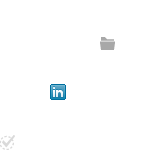
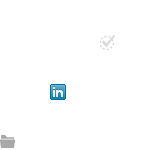
apply page dev - wip

Changed region(s): [[0.0, 0.88, 0.1067, 1.0], [0.6667, 0.24, 0.7733, 0.3467]]

diff --git a/css/style.css b/css/style.css
@@ -501,74 +501,77 @@ section {
 }
 
 .btnUpload {
-  color:                #eee;
-  text-shadow:          1px 1px 0 rgba(95,95,95,0.3);
-  margin-bottom:        10px;
-  padding-right:        22px;
-  padding-left:         47px;
-  border-color:         #838383;
-  background:           #c3383d url(../img/btns_lt_apply.png) -30px -74px no-repeat;
-  background:           url(../img/btns_lt_apply.png) -30px -74px no-repeat, -moz-linear-gradient(top, #c3383d 0%, #c3020a 100%);
-  background:           url(../img/btns_lt_apply.png) -30px -74px no-repeat, -webkit-gradient(linear, left top, left bottom, color-stop(0%,#c3383d), color-stop(100%,#c3020a));
-  -pie-background:      url(/img/btns_lt_apply.png) -30px -74px no-repeat, linear-gradient(#c3383d, #c3020a);
+  color:                #999898;
+  text-shadow:          1px 1px 0 rgba(255,255,255,0.3);
+  padding:              11px 12px 11px 44px;
+  border-color:         #b8b8b7;
+  background:           #fefefe url(../img/btns_lt_apply.png) 20px -124px no-repeat;
+  background:           url(../img/btns_lt_apply.png) 20px -124px no-repeat, -moz-linear-gradient(top, #fefefe 0%, #d7d7d7 100%);
+  background:           url(../img/btns_lt_apply.png) 20px -124px no-repeat, -webkit-gradient(linear, left top, left bottom, color-stop(0%,#fefefe), color-stop(100%,#d7d7d7));
+  -pie-background:      url(/img/btns_lt_apply.png) 20px -124px no-repeat, linear-gradient(#fefefe, #d7d7d7);
+     -moz-box-shadow:   0 2px 4px rgba(151,151,151,0.5); 
+  -webkit-box-shadow:   0 2px 4px rgba(151,151,151,0.5); 
+          box-shadow:   0 2px 4px rgba(151,151,151,0.5);
   behavior: url(/js/libs/PIE/PIE.htc);
 }
 .btnUpload:hover,
 .btnUpload:active,
 .btnUpload:visited {
-  color:                #eee;
+  color:                #999898;
 }
 .btnUpload:hover {
-  background:           #93262a url(../img/btns_lt_apply.png) -30px -74px no-repeat;
-  background:           url(../img/btns_lt_apply.png) -30px -74px no-repeat, -moz-linear-gradient(top, #93262a 0%, #8f0309 100%);
-  background:           url(../img/btns_lt_apply.png) -30px -74px no-repeat, -webkit-gradient(linear, left top, left bottom, color-stop(0%,#93262a), color-stop(100%,#8f0309));
-  -pie-background:      url(/img/btns_lt_apply.png) -30px -74px no-repeat, linear-gradient(#93262a, #8f0309);
+  background:           #fefefe url(../img/btns_lt_apply.png) 20px -124px no-repeat;
+  background:           url(../img/btns_lt_apply.png) 20px -124px no-repeat, -moz-linear-gradient(top, #fefefe 0%, #a4a4a4 100%);
+  background:           url(../img/btns_lt_apply.png) 20px -124px no-repeat, -webkit-gradient(linear, left top, left bottom, color-stop(0%,#fefefe), color-stop(100%,#a4a4a4));
+  -pie-background:      url(/img/btns_lt_apply.png) 20px -124px no-repeat, linear-gradient(#fefefe, #a4a4a4);
 }
 .btnUpload:active {
-  background:           #770207 url(../img/btns_lt_apply.png) -30px -74px no-repeat;
-  -pie-background:      #770207 url(/img/btns_lt_apply.png) -30px -74px no-repeat;
+  background:           #d7d7d7 url(../img/v.png) 20px -124px no-repeat;
+  -pie-background:      #d7d7d7 url(/img/btns_lt_apply.png) 20px -124px no-repeat;
 }
 
 .btnLinkedIn {
-  color:                #eee;
-  text-shadow:          1px 1px 0 rgba(95,95,95,0.3);
-  margin-bottom:        10px;
-  padding-right:        22px;
-  padding-left:         47px;
-  border-color:         #838383;
-  background:           #c3383d url(../img/btns_lt_apply.png) -30px -74px no-repeat;
-  background:           url(../img/btns_lt_apply.png) -30px -74px no-repeat, -moz-linear-gradient(top, #c3383d 0%, #c3020a 100%);
-  background:           url(../img/btns_lt_apply.png) -30px -74px no-repeat, -webkit-gradient(linear, left top, left bottom, color-stop(0%,#c3383d), color-stop(100%,#c3020a));
-  -pie-background:      url(/img/btns_lt_apply.png) -30px -74px no-repeat, linear-gradient(#c3383d, #c3020a);
+  color:                #999898;
+  text-shadow:          1px 1px 0 rgba(255,255,255,0.3);
+  padding:              11px 12px 11px 44px;
+  border-color:         #b8b8b7;
+  background:           #fefefe url(../img/btns_lt_apply.png) -30px -74px no-repeat;
+  background:           url(../img/btns_lt_apply.png) -30px -74px no-repeat, -moz-linear-gradient(top, #fefefe 0%, #d7d7d7 100%);
+  background:           url(../img/btns_lt_apply.png) -30px -74px no-repeat, -webkit-gradient(linear, left top, left bottom, color-stop(0%,#fefefe), color-stop(100%,#d7d7d7));
+  -pie-background:      url(/img/btns_lt_apply.png) -30px -74px no-repeat, linear-gradient(#fefefe, #d7d7d7);
+     -moz-box-shadow:   0 2px 4px rgba(151,151,151,0.5); 
+  -webkit-box-shadow:   0 2px 4px rgba(151,151,151,0.5); 
+          box-shadow:   0 2px 4px rgba(151,151,151,0.5);
   behavior: url(/js/libs/PIE/PIE.htc);
 }
 .btnLinkedIn:hover,
 .btnLinkedIn:active,
 .btnLinkedIn:visited {
-  color:                #eee;
+  color:                #999898;
 }
 .btnLinkedIn:hover {
-  background:           #93262a url(../img/btns_lt_apply.png) -30px -74px no-repeat;
-  background:           url(../img/btns_lt_apply.png) -30px -74px no-repeat, -moz-linear-gradient(top, #93262a 0%, #8f0309 100%);
-  background:           url(../img/btns_lt_apply.png) -30px -74px no-repeat, -webkit-gradient(linear, left top, left bottom, color-stop(0%,#93262a), color-stop(100%,#8f0309));
-  -pie-background:      url(/img/btns_lt_apply.png) -30px -74px no-repeat, linear-gradient(#93262a, #8f0309);
+  background:           #fefefe url(../img/btns_lt_apply.png) -30px -74px no-repeat;
+  background:           url(../img/btns_lt_apply.png) -30px -74px no-repeat, -moz-linear-gradient(top, #fefefe 0%, #a4a4a4 100%);
+  background:           url(../img/btns_lt_apply.png) -30px -74px no-repeat, -webkit-gradient(linear, left top, left bottom, color-stop(0%,#fefefe), color-stop(100%,#a4a4a4));
+  -pie-background:      url(/img/btns_lt_apply.png) -30px -74px no-repeat, linear-gradient(#fefefe, #a4a4a4);
 }
 .btnLinkedIn:active {
-  background:           #770207 url(../img/btns_lt_apply.png) -30px -74px no-repeat;
-  -pie-background:      #770207 url(/img/btns_lt_apply.png) -30px -74px no-repeat;
+  background:           #d7d7d7 url(../img/btns_lt_apply.png) -30px -74px no-repeat;
+  -pie-background:      #d7d7d7 url(/img/btns_lt_apply.png) -30px -74px no-repeat;
 }
 
 .btnSubmit {
   color:                #eee;
   text-shadow:          1px 1px 0 rgba(95,95,95,0.3);
-  margin-bottom:        10px;
-  padding-right:        22px;
-  padding-left:         47px;
+  padding:              9px 12px 8px 37px;
   border-color:         #838383;
-  background:           #c3383d url(../img/btns_lt_apply.png) -30px -74px no-repeat;
-  background:           url(../img/btns_lt_apply.png) -30px -74px no-repeat, -moz-linear-gradient(top, #c3383d 0%, #c3020a 100%);
-  background:           url(../img/btns_lt_apply.png) -30px -74px no-repeat, -webkit-gradient(linear, left top, left bottom, color-stop(0%,#c3383d), color-stop(100%,#c3020a));
-  -pie-background:      url(/img/btns_lt_apply.png) -30px -74px no-repeat, linear-gradient(#c3383d, #c3020a);
+  background:           #699ab5 url(../img/btns_lt_apply.png) -84px -25px no-repeat;
+  background:           url(../img/btns_lt_apply.png) -84px -25px no-repeat, -moz-linear-gradient(top, #699ab5 0%, #2a749d 100%);
+  background:           url(../img/btns_lt_apply.png) -84px -25px no-repeat, -webkit-gradient(linear, left top, left bottom, color-stop(0%,#699ab5), color-stop(100%,#2a749d));
+  -pie-background:      url(/img/btns_lt_apply.png) -84px -25px no-repeat, linear-gradient(#699ab5, #2a749d);
+     -moz-box-shadow:   0 2px 4px rgba(0,0,0,0.5); 
+  -webkit-box-shadow:   0 2px 4px rgba(0,0,0,0.5); 
+          box-shadow:   0 2px 4px rgba(0,0,0,0.5);
   behavior: url(/js/libs/PIE/PIE.htc);
 }
 .btnSubmit:hover,
@@ -577,15 +580,16 @@ section {
   color:                #eee;
 }
 .btnSubmit:hover {
-  background:           #93262a url(../img/btns_lt_apply.png) -30px -74px no-repeat;
-  background:           url(../img/btns_lt_apply.png) -30px -74px no-repeat, -moz-linear-gradient(top, #93262a 0%, #8f0309 100%);
-  background:           url(../img/btns_lt_apply.png) -30px -74px no-repeat, -webkit-gradient(linear, left top, left bottom, color-stop(0%,#93262a), color-stop(100%,#8f0309));
-  -pie-background:      url(/img/btns_lt_apply.png) -30px -74px no-repeat, linear-gradient(#93262a, #8f0309);
+  background:           #58839a url(../img/btns_lt_apply.png) -84px -25px no-repeat;
+  background:           url(../img/btns_lt_apply.png) -84px -25px no-repeat, -moz-linear-gradient(top, #58839a 0%, #215a79 100%);
+  background:           url(../img/btns_lt_apply.png) -84px -25px no-repeat, -webkit-gradient(linear, left top, left bottom, color-stop(0%,#58839a), color-stop(100%,#215a79));
+  -pie-background:      url(/img/btns_lt_apply.png) -84px -25px no-repeat, linear-gradient(#58839a, #215a79);
 }
 .btnSubmit:active {
-  background:           #770207 url(../img/btns_lt_apply.png) -30px -74px no-repeat;
-  -pie-background:      #770207 url(/img/btns_lt_apply.png) -30px -74px no-repeat;
+  background:           #1c4c66 url(../img/btns_lt_apply.png) -84px -25px no-repeat;
+  -pie-background:      #1c4c66 url(/img/btns_lt_apply.png) -84px -25px no-repeat;
 }
+
 
 /* if larger buttons are in a narrow container, relax right padding and let them go full width */
 aside section .btnLg,
